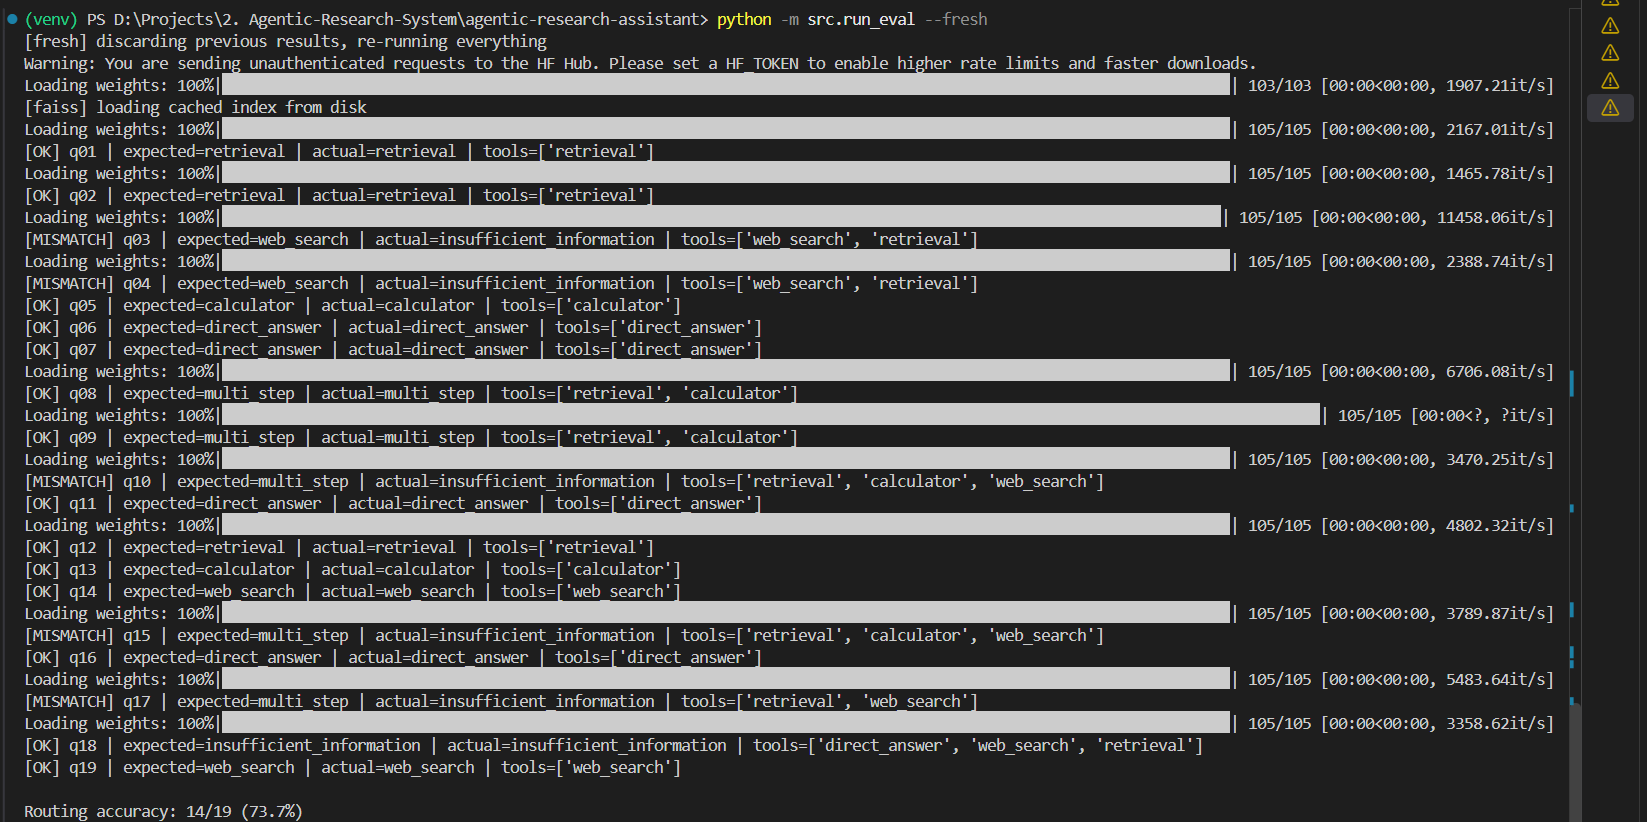
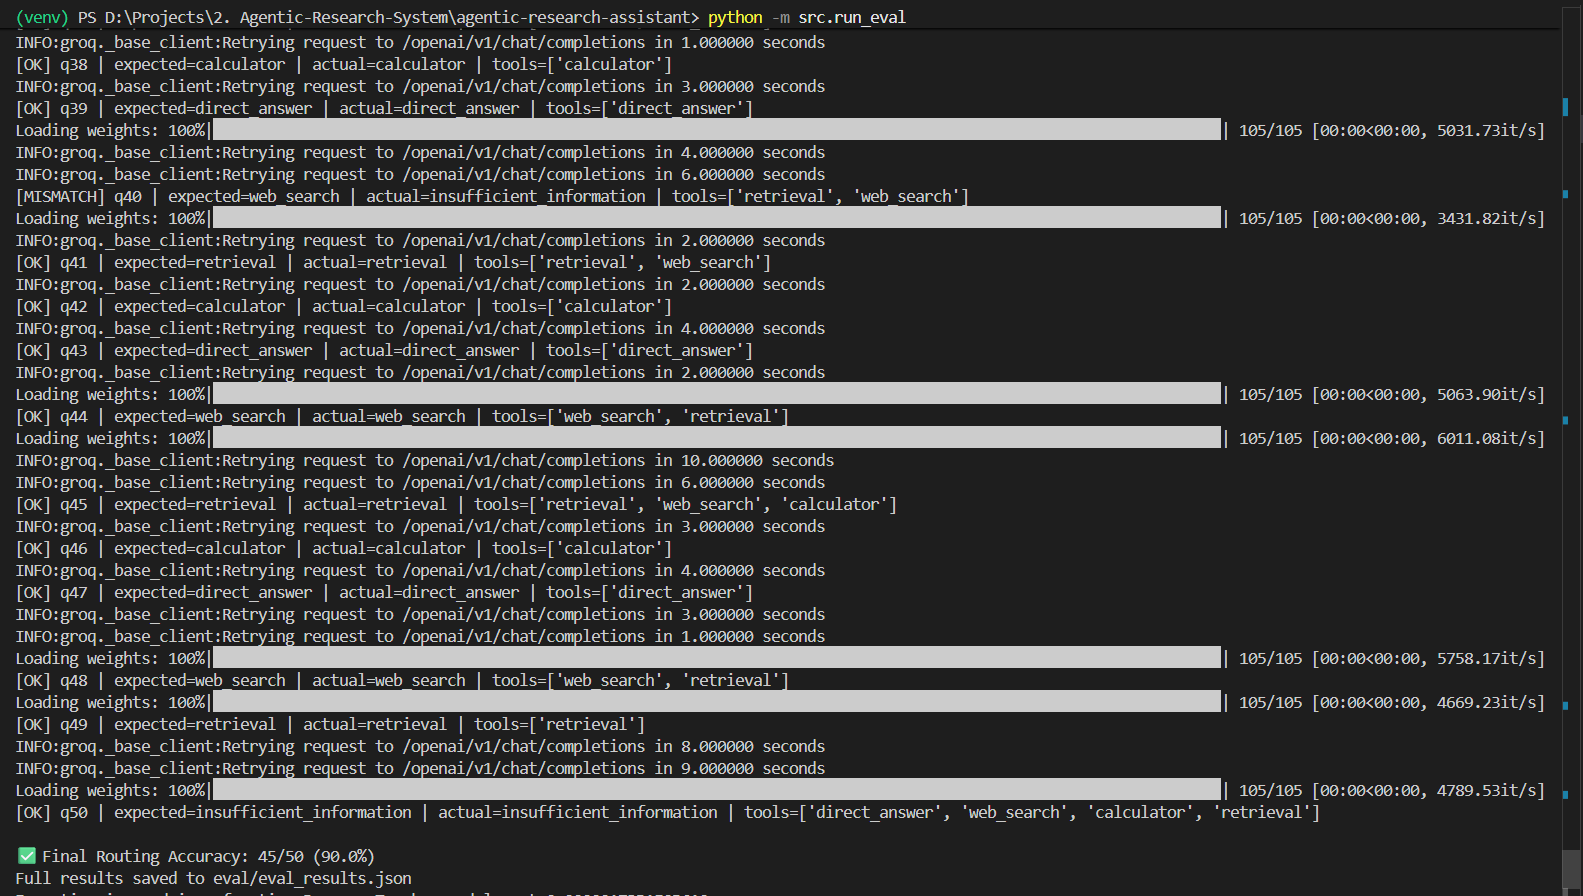
docs: update routing accuracy screenshot and add RAGAS evaluation image

diff --git a/README.md b/README.md
@@ -65,7 +65,7 @@ Evaluated using LLaMA 3.3 70B as judge over ground-truth annotated evaluation se
 | **Context Precision** | 11 retrieval queries | **0.9091** | **1.0000** | Cross-Encoder reranking (`ms-marco`) + thresholding ($-2.5$ logit cutoff) ranks top relevant chunks at rank 1. |
 | **Faithfulness** | 30 context queries | **0.7633** | **0.8167** | Grounded system prompt prevents parametric hallucinations during multi-step answer synthesis. |
 | **Answer Relevancy** | 47 answer queries | **0.6824** | **0.8356** | High directness on core queries; mean reflects deliberate refusal paths on temporal 2026 missing-context queries. |
-
+![RAGAS Quality Benchmark Results](assets/ragas_results.png)
 ---
 
 ## 📡 API Reference & Endpoints
